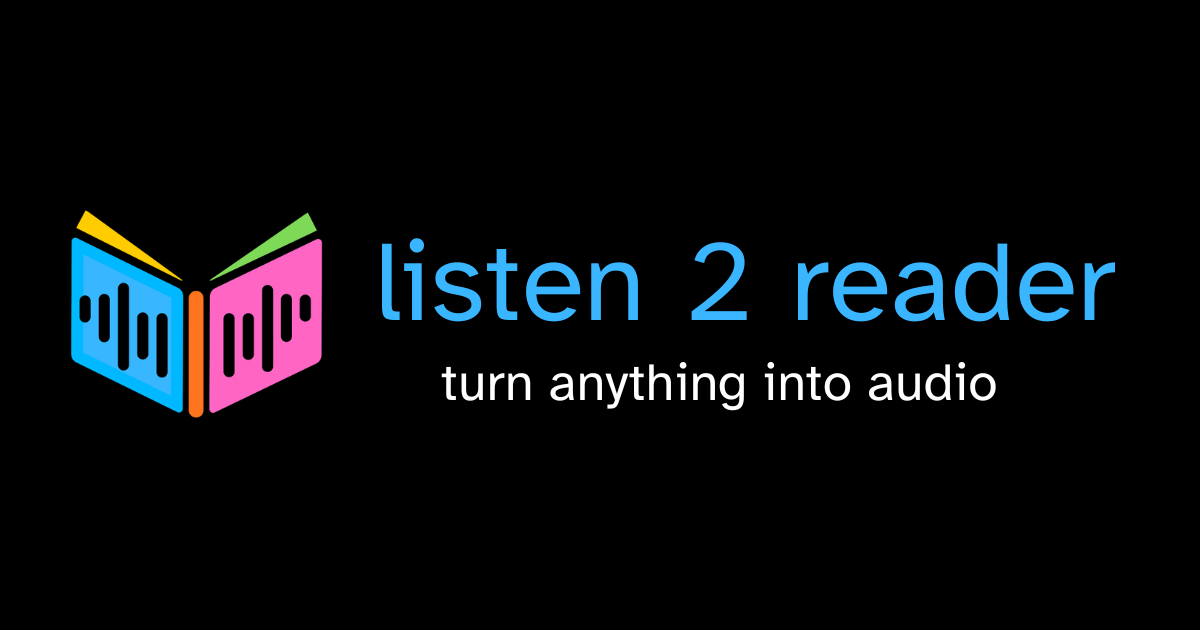
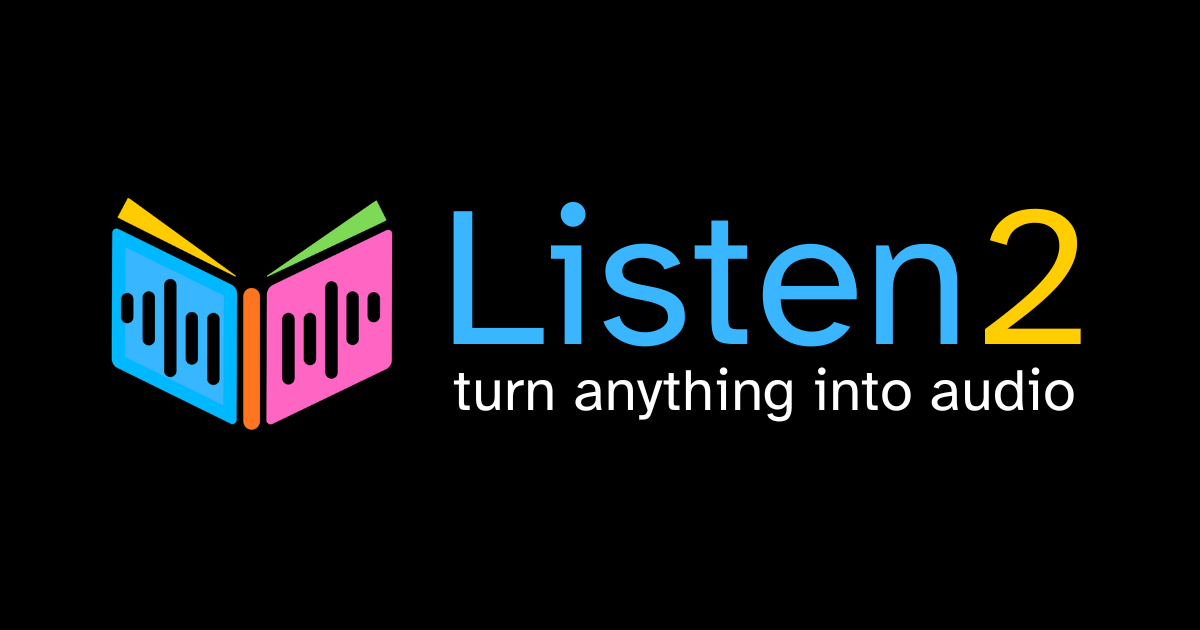
Add Listen2/Listen 2 Reader name bridging and update OG image
- Add alternateName to JSON-LD schema for App Store name discoverability
- Add FAQ entry explaining Listen2 vs "Listen 2 Reader" App Store name
- Update OG image with Listen2 branding

Changed region(s): [[0.0617, 0.3016, 0.925, 0.6937], [0.4625, 0.3016, 0.4933, 0.3619]]

diff --git a/src/apps/listen2.md b/src/apps/listen2.md
@@ -165,6 +165,9 @@ Listen2 was engineered from the ground up with accessibility in mind. Full Voice
 
 ### General
 
+**Q: Is Listen2 the same as "Listen 2 Reader" on the App Store?**
+A: Yes. Listen2 is listed as "Listen 2 Reader" on the App Store, but it's the same app. Search for either name to find it.
+
 **Q: What file formats does Listen2 support?**
 A: PDF, EPUB, DOCX, DAISY, plain text, Markdown, and anything you can copy to your clipboard. Import from the iOS Files app, which connects to iCloud Drive, Dropbox, Google Drive, OneDrive, and more.
 
